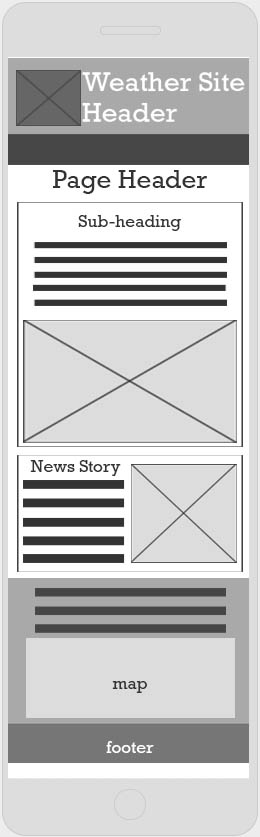
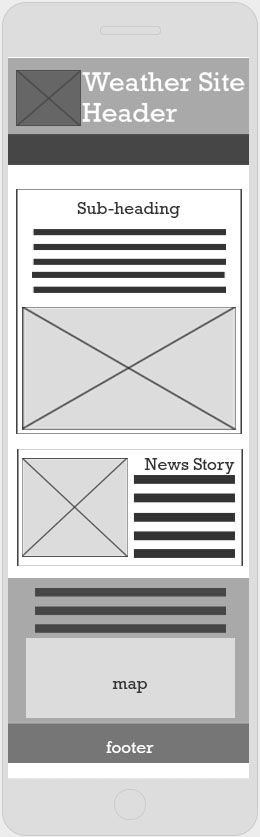
updated images/removed header text from index

Changed region(s): [[0.0615, 0.1864, 0.9538, 0.6834]]

diff --git a/assignments/lesson-9/index.html b/assignments/lesson-9/index.html
@@ -48,8 +48,6 @@
             </nav>
         </header>
         <main>
-            <h1 class="pagename">Welcome!</h1>
-
             <section id="tritown">
                 <!-- Populated with JSON data. Leave blank! --> 
             </section>
